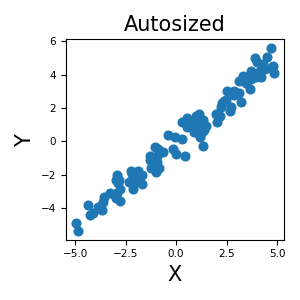
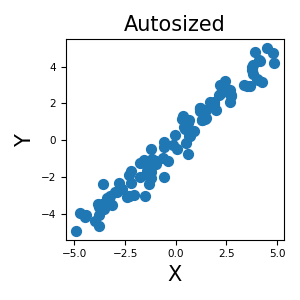
new examples

diff --git a/examples/scatterplot.py b/examples/scatterplot.py
@@ -6,35 +6,46 @@ n = 100
 x = np.random.uniform(low=-5, high=5, size=n)
 y = x + np.random.normal(scale=0.5, size=n)
 
-plt.figure(figsize=(3, 3))
-plt.scatter(x, y)
-plt.xlabel("X")
-plt.ylabel("Y")
-plt.title("Default")
-plt.savefig("./plots/scatterplot33_default.png")
-plt.show()
+for size in [3, 10, 20]:
 
-plt.scatter(x, y)
-plt.xlabel("X")
-plt.ylabel("Y")
-plt.title("Autosized")
-autosize(figsize=(3, 3))
-plt.savefig("./plots/scatterplot33_autosized.png")
-plt.show()
+    plt.figure(figsize=(size, size))
+    plt.scatter(x, y)
+    plt.xlabel("X")
+    plt.ylabel("Y")
+    plt.title("Default")
+    plt.savefig("./plots/scatterplot{}{}_default.png".format(size, size))
+    plt.show()
+
+    plt.figure(figsize=(size, size))
+    plt.scatter(x, y)
+    plt.xlabel("X")
+    plt.ylabel("Y")
+    plt.title("Autosized")
+    autosize()
+    plt.savefig("./plots/scatterplot{}{}_autosized.png".format(size, size))
+    plt.show()
+
+# plt.scatter(x, y)
+# plt.xlabel("X")
+# plt.ylabel("Y")
+# plt.title("Autosized")
+# autosize(figsize=(3, 3))
+# plt.savefig("./plots/scatterplot33_autosized.png")
+# plt.show()
 
 
-plt.figure(figsize=(5, 5))
-plt.scatter(x, y)
-plt.xlabel("X")
-plt.ylabel("Y")
-plt.title("Default")
-plt.savefig("./plots/scatterplot55_default.png")
-plt.show()
+# plt.figure(figsize=(5, 5))
+# plt.scatter(x, y)
+# plt.xlabel("X")
+# plt.ylabel("Y")
+# plt.title("Default")
+# plt.savefig("./plots/scatterplot55_default.png")
+# plt.show()
 
-plt.scatter(x, y)
-plt.xlabel("X")
-plt.ylabel("Y")
-plt.title("Autosized")
-autosize(figsize=(5, 5))
-plt.savefig("./plots/scatterplot55_autosized.png")
-plt.show()
+# plt.scatter(x, y)
+# plt.xlabel("X")
+# plt.ylabel("Y")
+# plt.title("Autosized")
+# autosize(figsize=(5, 5))
+# plt.savefig("./plots/scatterplot55_autosized.png")
+# plt.show()

diff --git a/plottify/plottify.py b/plottify/plottify.py
@@ -21,6 +21,8 @@ def autosize(fig=None, figsize=None):
     ## Make font sizes proportional to figure size
     fontsize_labels = figsize[0] * 5
     fontsize_ticks = fontsize_labels / 2
+    scatter_size = figsize[0] * 13
+    linewidth = figsize[0]
     axes = fig.get_axes()
     for ax in axes:
 
@@ -33,13 +35,11 @@ def autosize(fig=None, figsize=None):
             item.set_fontsize(fontsize_ticks)
 
         ## Set line widths
-        linewidth = figsize[0]
         plot_objs = [child for child in ax.get_children() if isinstance(child, Line2D)]
         for plot_obj in plot_objs:
             plot_obj.set_linewidth(linewidth)
 
         ## Set scatter point sizes
-        scatter_size = figsize[0] * 13
         plot_objs = [
             child
             for child in ax.get_children()

diff --git a/README.md b/README.md
@@ -4,8 +4,16 @@ The plottify package is intended to easily make plots more legible. It's a thin 
 
 By default, matplotlib sets the sizes of these objects to pre-specified values, regardless of the figure size. This can result in tiny fonts or sizes for larger figures:
 
-![scatterplot55_default](examples/plots/scatterplot55_default.png)
+![scatterplot33_default](examples/plots/scatterplot33_default.png)
+
+![scatterplot1010_default](examples/plots/scatterplot1010_default.png)
+
+![scatterplot2020_default](examples/plots/scatterplot2020_default.png)
 
 Plottify's `autosize` function adjusts these sizes automatically to make them more legible:
 
 ![scatterplot55_autosized](examples/plots/scatterplot55_autosized.png)
+
+## Bugs and feature requests
+
+Please report any bugs or feature requests as a GitHub issue.
